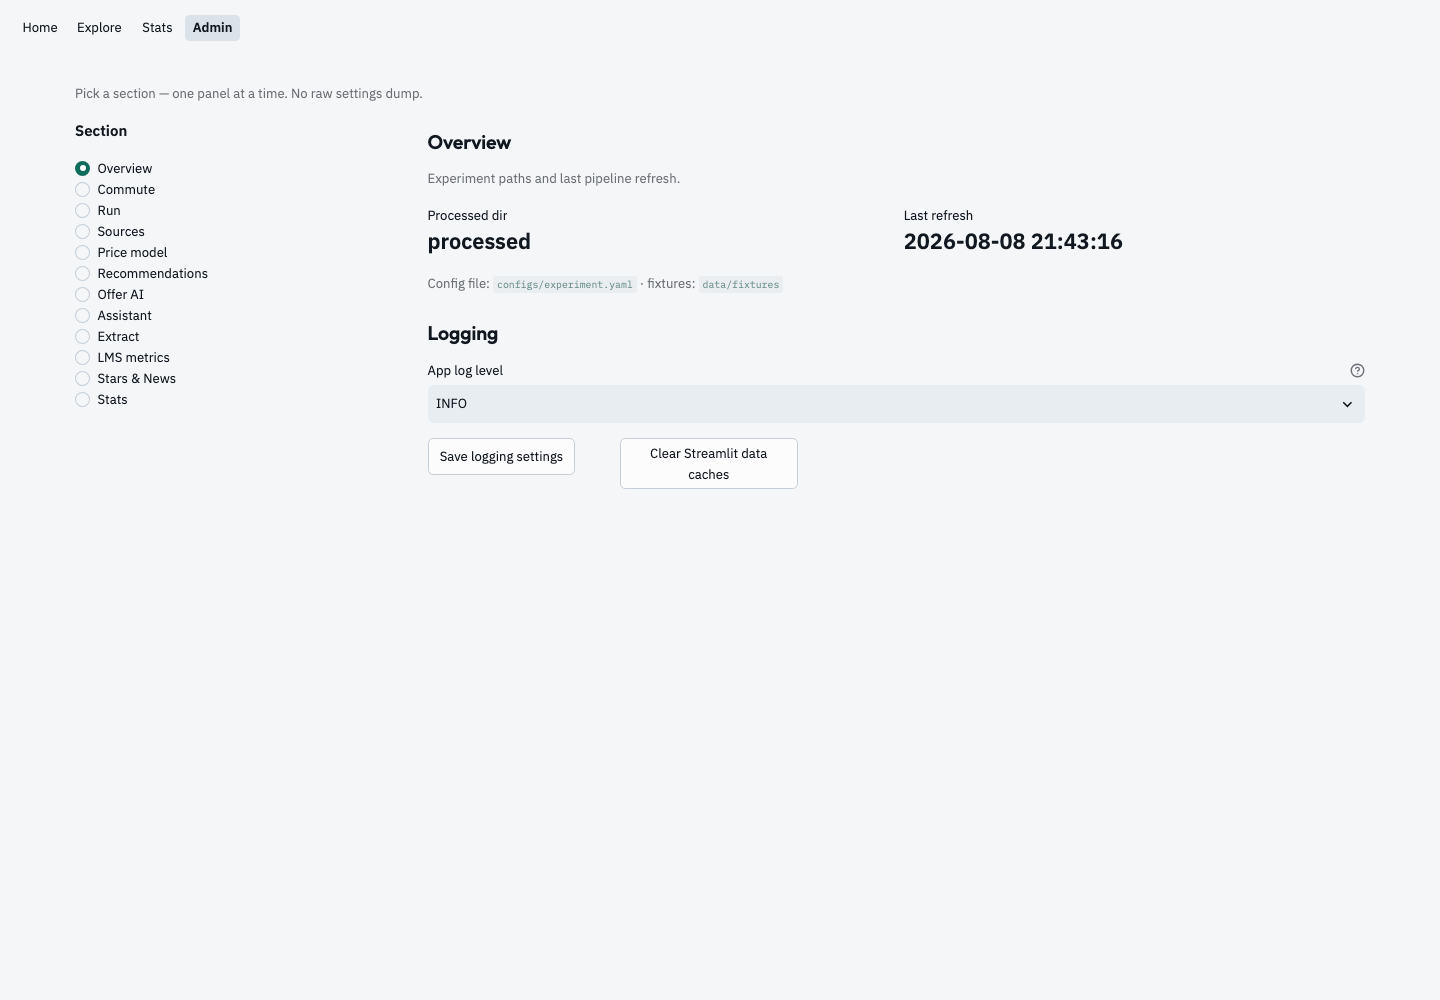
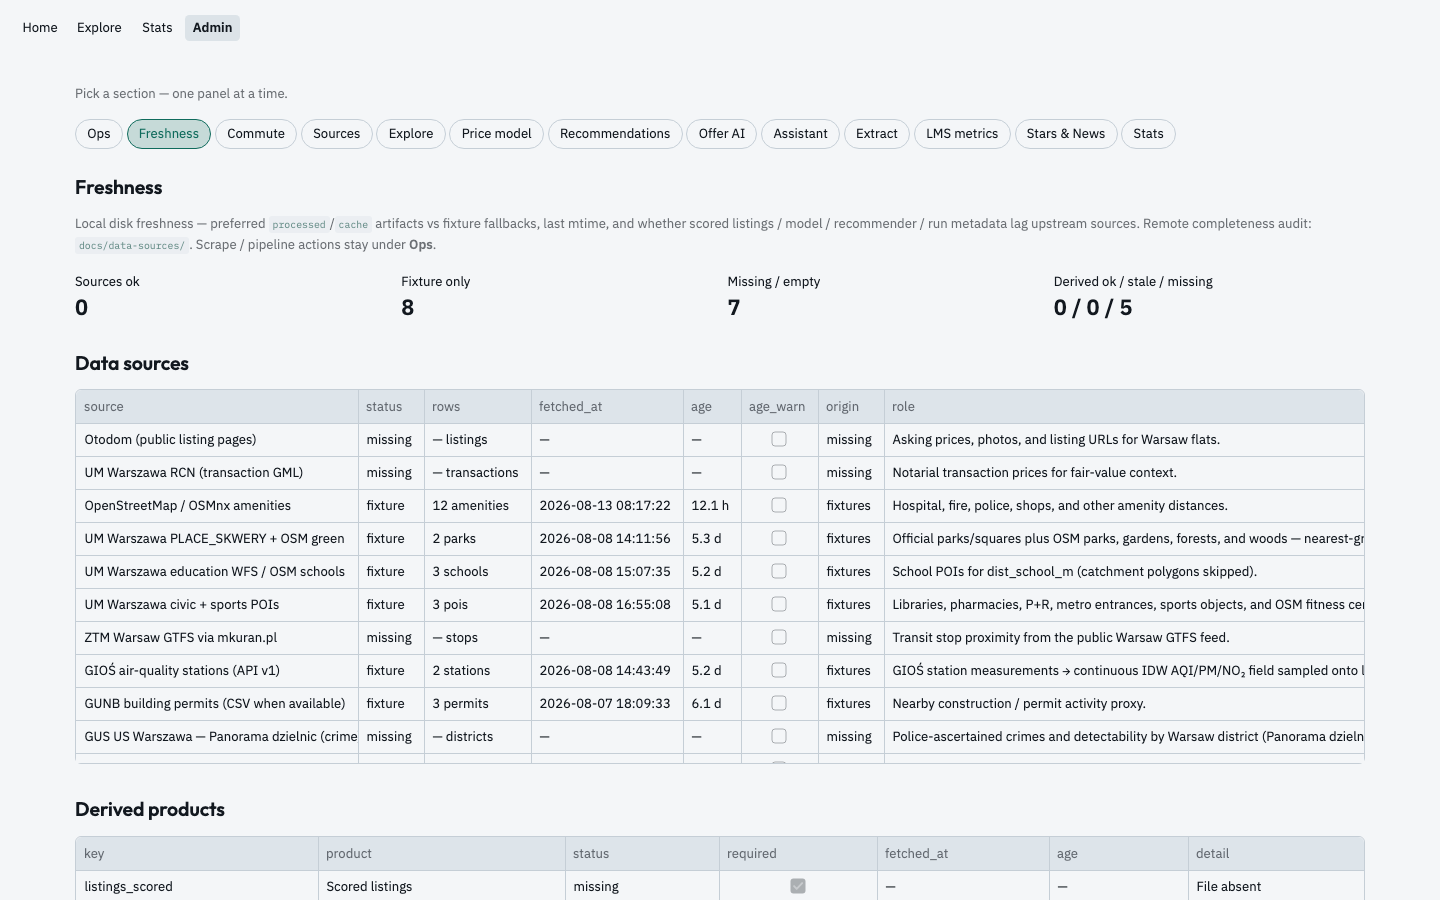
docs(readme): document Freshness Admin section and refresh screenshot
Capture script targets the Freshness pill for the Admin overview shot.

diff --git a/scripts/capture_readme_screenshots.py b/scripts/capture_readme_screenshots.py
@@ -103,15 +103,20 @@ def main() -> None:
 
         _nav(page, "Admin")
         page.wait_for_timeout(3000)
+        try:
+            page.get_by_role("radio", name="Freshness").click()
+            page.wait_for_timeout(2500)
+        except Exception as exc:
+            print(f"skip Admin Freshness section: {exc}")
         _shot(page, "09-admin.png")
         try:
-            page.get_by_text("Stats", exact=True).last.click()
+            page.get_by_role("radio", name="Stats").click()
             page.wait_for_timeout(2500)
             _shot(page, "10-admin-settings.png")
         except Exception as exc:
             print(f"skip Admin Stats section: {exc}")
             try:
-                page.get_by_text("Offer AI", exact=True).click()
+                page.get_by_role("radio", name="Offer AI").click()
                 page.wait_for_timeout(2500)
                 _shot(page, "10-admin-settings.png")
             except Exception as exc2:

diff --git a/README.md b/README.md
@@ -73,9 +73,9 @@ Tunables: Admin → Stats (including SHAP sample size).
 
 ### Admin
 
-Top **pills** navigate short panels (Ops · Commute · Sources · Explore · Price
-model · Recommendations · Offer AI · …) — scrape / recompute, freshness, AI
-tunables, and memory. No raw JSON dump.
+Top **pills** navigate short panels (Ops · Freshness · Commute · Sources · Explore ·
+Price model · Recommendations · Offer AI · …) — scrape / recompute, local-disk
+freshness, AI tunables, and memory. No raw JSON dump.
 
 ![Admin — Overview](docs/screenshots/09-admin.png)
 
